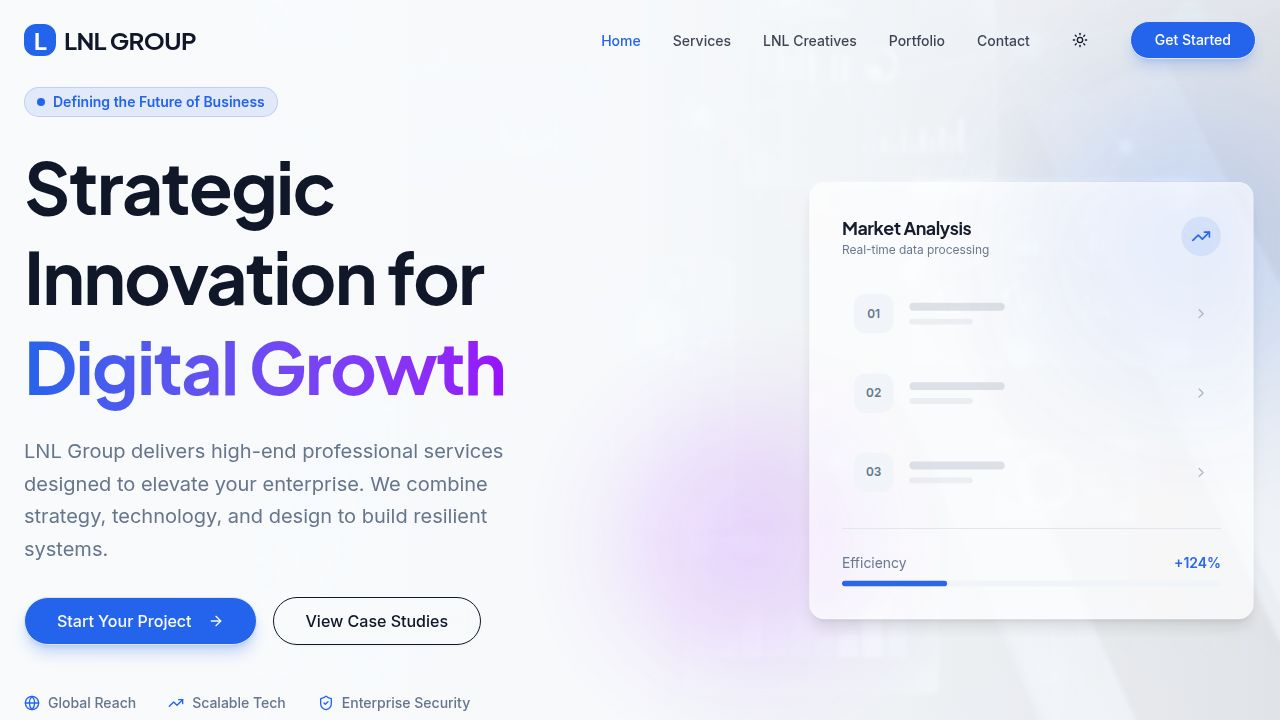
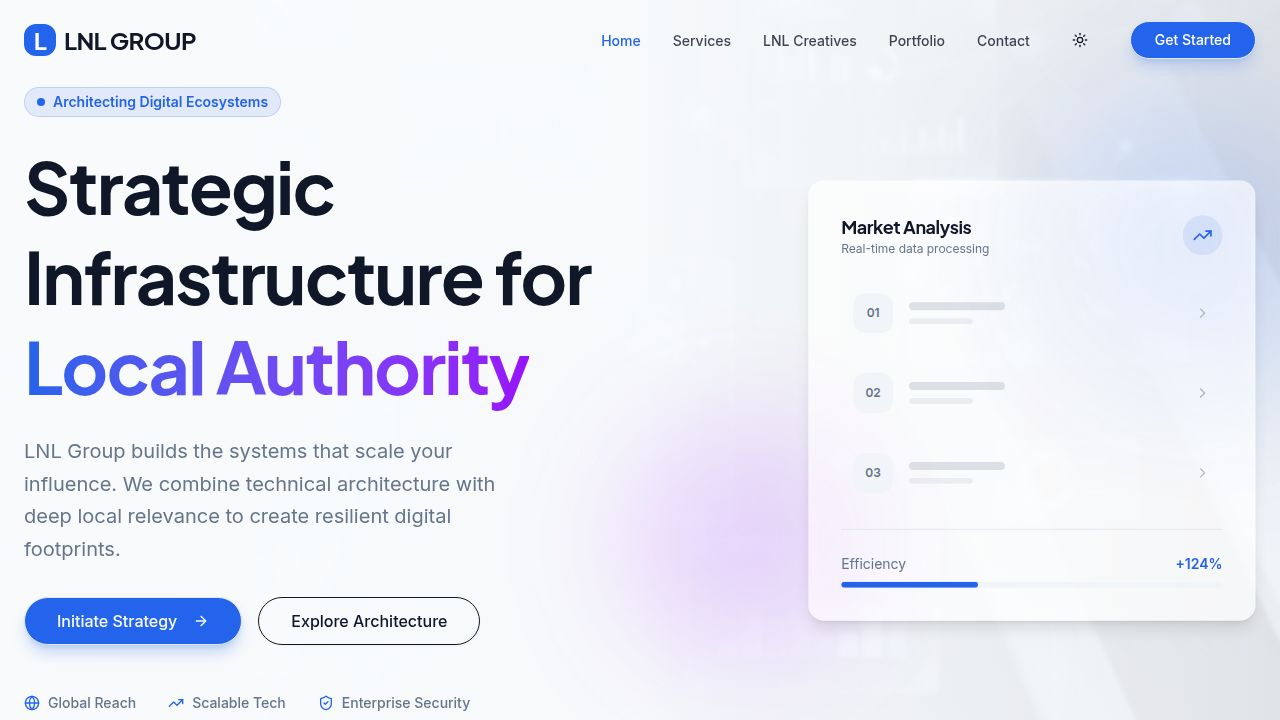
Refine website copy to align with the "Insightful Architect" persona
Update copy in Hero, Contact, and Creatives components to reflect a sophisticated, architectural, and locally anchored voice.

Replit-Commit-Author: Agent
Replit-Commit-Session-Id: 804ebe80-f2bb-45b0-8f5d-b73ab4e92bdf
Replit-Commit-Checkpoint-Type: full_checkpoint
Replit-Commit-Event-Id: 92299162-2dcc-460b-8fe9-f7c123d882e7
Replit-Commit-Screenshot-Url: https://storage.googleapis.com/screenshot-production-us-central1/4cfe9bca-c23f-4b09-bade-94c6298a393d/804ebe80-f2bb-45b0-8f5d-b73ab4e92bdf/ggeQf5a
Replit-Helium-Checkpoint-Created: true

diff --git a/client/src/pages/Creatives.tsx b/client/src/pages/Creatives.tsx
@@ -171,12 +171,12 @@ export default function Creatives() {
               {/* Brand Growth Tier */}
               <div className="rounded-3xl border-2 border-primary bg-card p-8 shadow-2xl relative overflow-hidden transform md:-translate-y-4">
                 <div className="absolute top-4 right-4 bg-primary text-primary-foreground text-xs font-bold px-3 py-1 rounded-full">
-                  MOST POPULAR
+                  RECOMMENDED ARCHITECTURE
                 </div>
                 
                 <h3 className="text-2xl font-bold mb-2">Brand Growth Tier</h3>
                 <div className="text-4xl font-bold mb-4">{currentLocation.pricing.growth}<span className="text-lg text-muted-foreground font-medium">/mo</span></div>
-                <p className="text-muted-foreground mb-8">Complete market domination with physical presence and targeted advertising.</p>
+                <p className="text-muted-foreground mb-8">Complete market authority with physical presence and targeted infrastructure.</p>
                 
                 <div className="space-y-4 mb-8">
                   <div className="font-semibold text-primary flex items-center gap-2">
@@ -189,16 +189,16 @@ export default function Creatives() {
                     </li>
                     <li className="flex items-start gap-3 text-sm">
                       <Check className="w-5 h-5 text-primary shrink-0" />
-                      <span><strong>Geo-Targeted Ad Setup</strong> (Meta/Google)</span>
+                      <span><strong>Geo-Targeted Ad Infrastructure</strong> (Meta/Google)</span>
                     </li>
                     <li className="flex items-start gap-3 text-sm">
                       <Check className="w-5 h-5 text-primary shrink-0" />
-                      <span>Comprehensive Ad Reporting & Analytics</span>
+                      <span>Comprehensive Performance Analytics</span>
                     </li>
                   </ul>
                 </div>
                 
-                <Button className="w-full rounded-full bg-primary hover:bg-primary/90">Scale Your Brand</Button>
+                <Button className="w-full rounded-full bg-primary hover:bg-primary/90">Expand Your Footprint</Button>
               </div>
 
             </div>

diff --git a/client/src/components/Hero.tsx b/client/src/components/Hero.tsx
@@ -23,23 +23,23 @@ export default function Hero() {
               <span className="animate-ping absolute inline-flex h-full w-full rounded-full bg-primary opacity-75"></span>
               <span className="relative inline-flex rounded-full h-2 w-2 bg-primary"></span>
             </span>
-            Defining the Future of Business
+            Architecting Digital Ecosystems
           </div>
           
           <h1 className="text-5xl md:text-7xl font-bold leading-tight mb-6 tracking-tight">
-            Strategic Innovation for <span className="tech-gradient-text">Digital Growth</span>
+            Strategic Infrastructure for <span className="tech-gradient-text">Local Authority</span>
           </h1>
           
           <p className="text-lg md:text-xl text-muted-foreground mb-8 max-w-lg leading-relaxed">
-            LNL Group delivers high-end professional services designed to elevate your enterprise. We combine strategy, technology, and design to build resilient systems.
+            LNL Group builds the systems that scale your influence. We combine technical architecture with deep local relevance to create resilient digital footprints.
           </p>
           
           <div className="flex flex-col sm:flex-row gap-4">
             <Button size="lg" className="rounded-full px-8 h-12 text-base shadow-lg shadow-primary/25 bg-primary hover:bg-primary/90">
-              Start Your Project <ArrowRight className="ml-2 h-4 w-4" />
+              Initiate Strategy <ArrowRight className="ml-2 h-4 w-4" />
             </Button>
             <Button size="lg" variant="outline" className="rounded-full px-8 h-12 text-base bg-background/50 backdrop-blur-sm hover:bg-background/80">
-              View Case Studies
+              Explore Architecture
             </Button>
           </div>
 

diff --git a/client/src/components/Contact.tsx b/client/src/components/Contact.tsx
@@ -9,18 +9,18 @@ export default function Contact() {
           
           <div className="grid grid-cols-1 md:grid-cols-2 gap-12 relative z-10">
             <div>
-              <h2 className="text-3xl md:text-4xl font-bold mb-6">Let's talk business.</h2>
+              <h2 className="text-3xl md:text-4xl font-bold mb-6">Let's architect your growth.</h2>
               <p className="text-muted-foreground mb-8">
-                Ready to transform your digital presence? Schedule a consultation with our strategy team.
+                Ready to build a resilient digital ecosystem? Initiate a strategic consultation with our team.
               </p>
               
               <div className="space-y-6">
                 <div>
-                  <h4 className="font-semibold mb-1">Email Us</h4>
+                  <h4 className="font-semibold mb-1">Direct Line</h4>
                   <p className="text-muted-foreground">hello@lnlgroup.com</p>
                 </div>
                 <div>
-                  <h4 className="font-semibold mb-1">Visit Us</h4>
+                  <h4 className="font-semibold mb-1">Headquarters</h4>
                   <p className="text-muted-foreground">101 Tech Boulevard<br/>San Francisco, CA 94107</p>
                 </div>
               </div>
